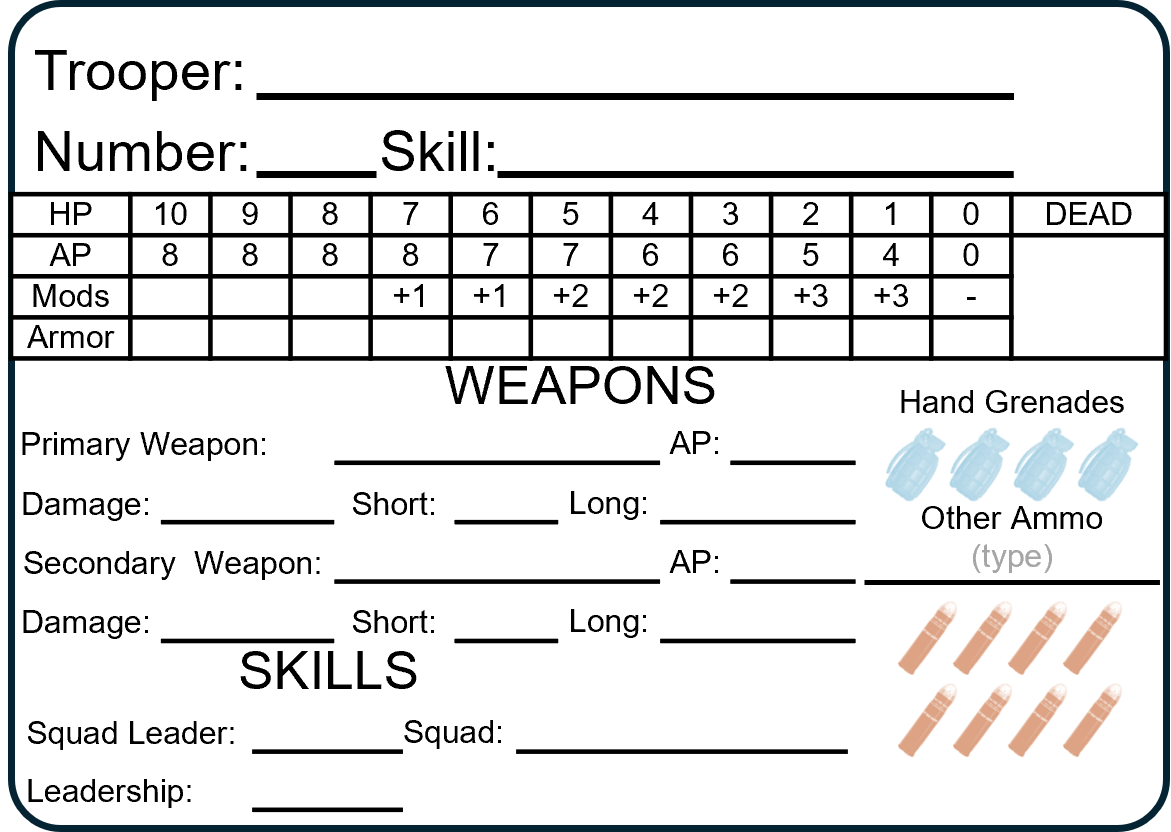
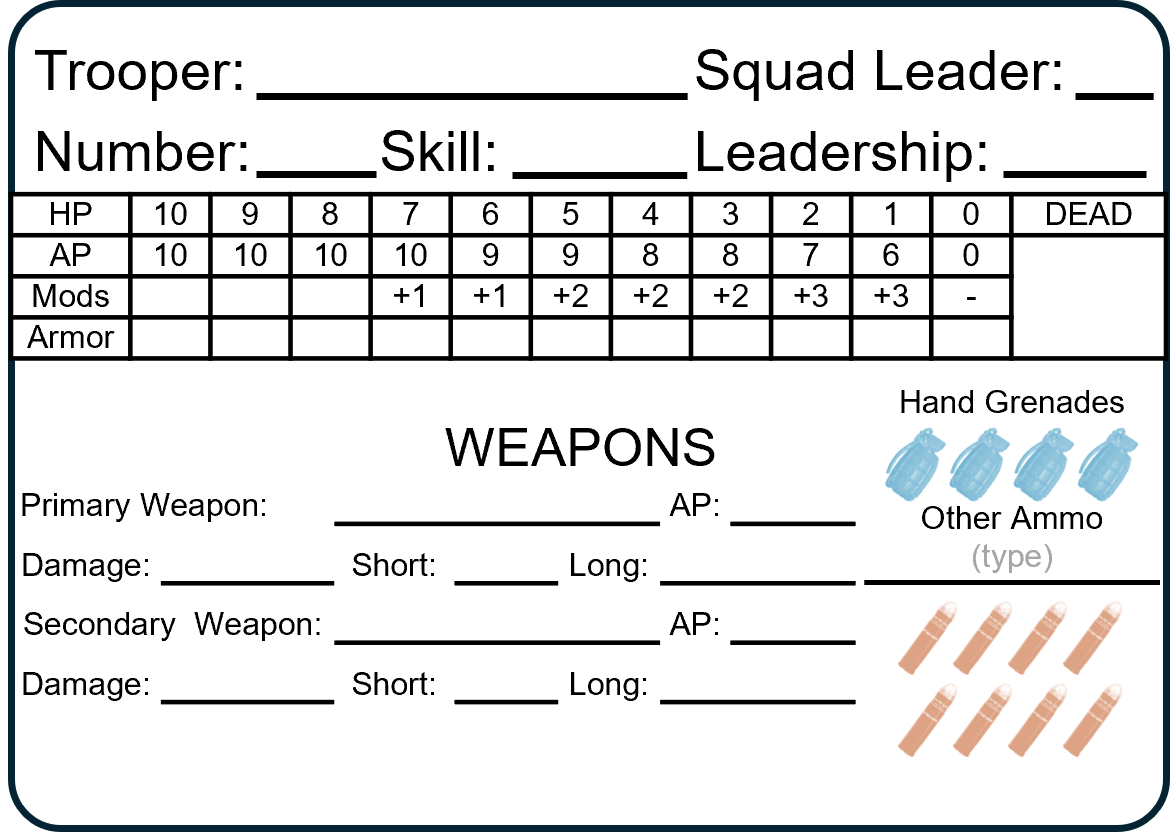
unify unit cards

diff --git a/rules/8-Resources/0-Sample-Unit-Cards.tex b/rules/8-Resources/0-Sample-Unit-Cards.tex
@@ -1,31 +1,13 @@
 \begin{figure}[H]
   \centering
   \includegraphics[alt='Sample Regular Trooper', width=5.63in, height=4in]{img/RegularTrooper.png}
-  \caption*{Sample Regular Trooper}
-\end{figure}
-
-\begin{figure}[H]
-  \centering
-  \includegraphics[alt='Sample Green Trooper', width=5.63in, height=4in]{img/GreenTrooper.png}
-  \caption*{Sample Green Trooper}
-\end{figure}
-
-\begin{figure}[H]
-  \centering
-  \includegraphics[alt='Sample Veteran Trooper', width=5.63in, height=4in]{img/VeteranTrooper.png}
-  \caption*{Sample Veteran Trooper}
-\end{figure}
-
-\begin{figure}[H]
-  \centering
-  \includegraphics[alt='Sample Elite Trooper', width=5.63in, height=4in]{img/EliteTrooper.png}
-  \caption*{Sample Elite Trooper}
+  \caption*{Regular Trooper Unit Card}
 \end{figure}
 
 \begin{figure}[H]
   \centering
   \includegraphics[alt='Sample Vehicle', width=5.63in, height=4in]{img/Vehicle.png}
-  \caption*{Basic Vehicle Unit Card}
+  \caption*{Vehicle Unit Card}
 \end{figure}
 
 \begin{figure}[H]
